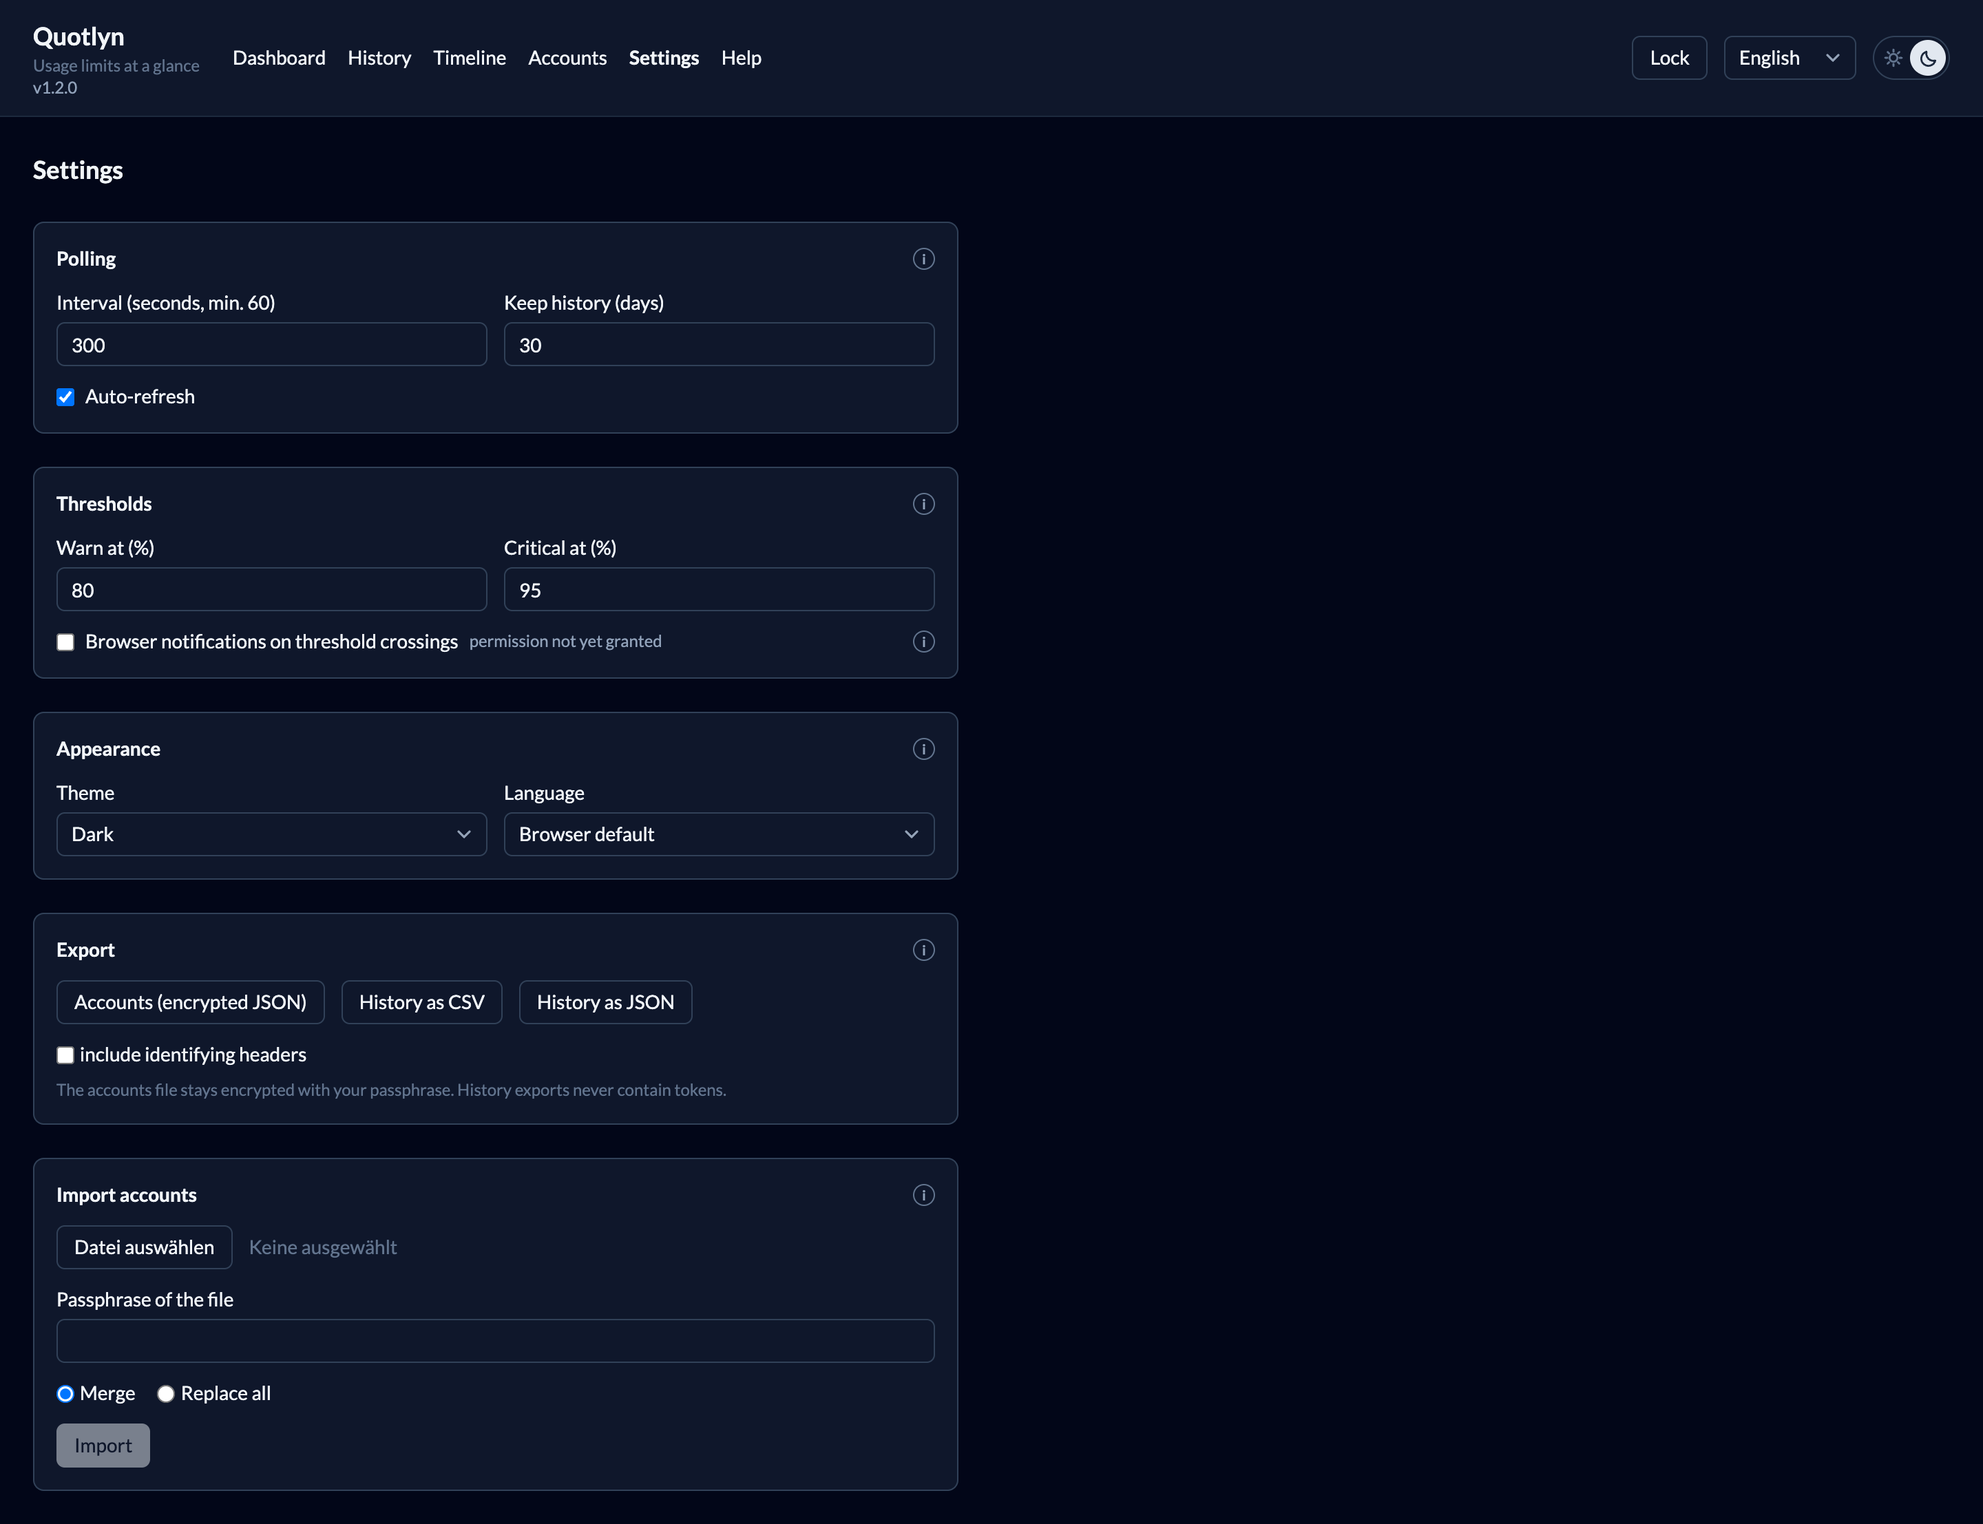
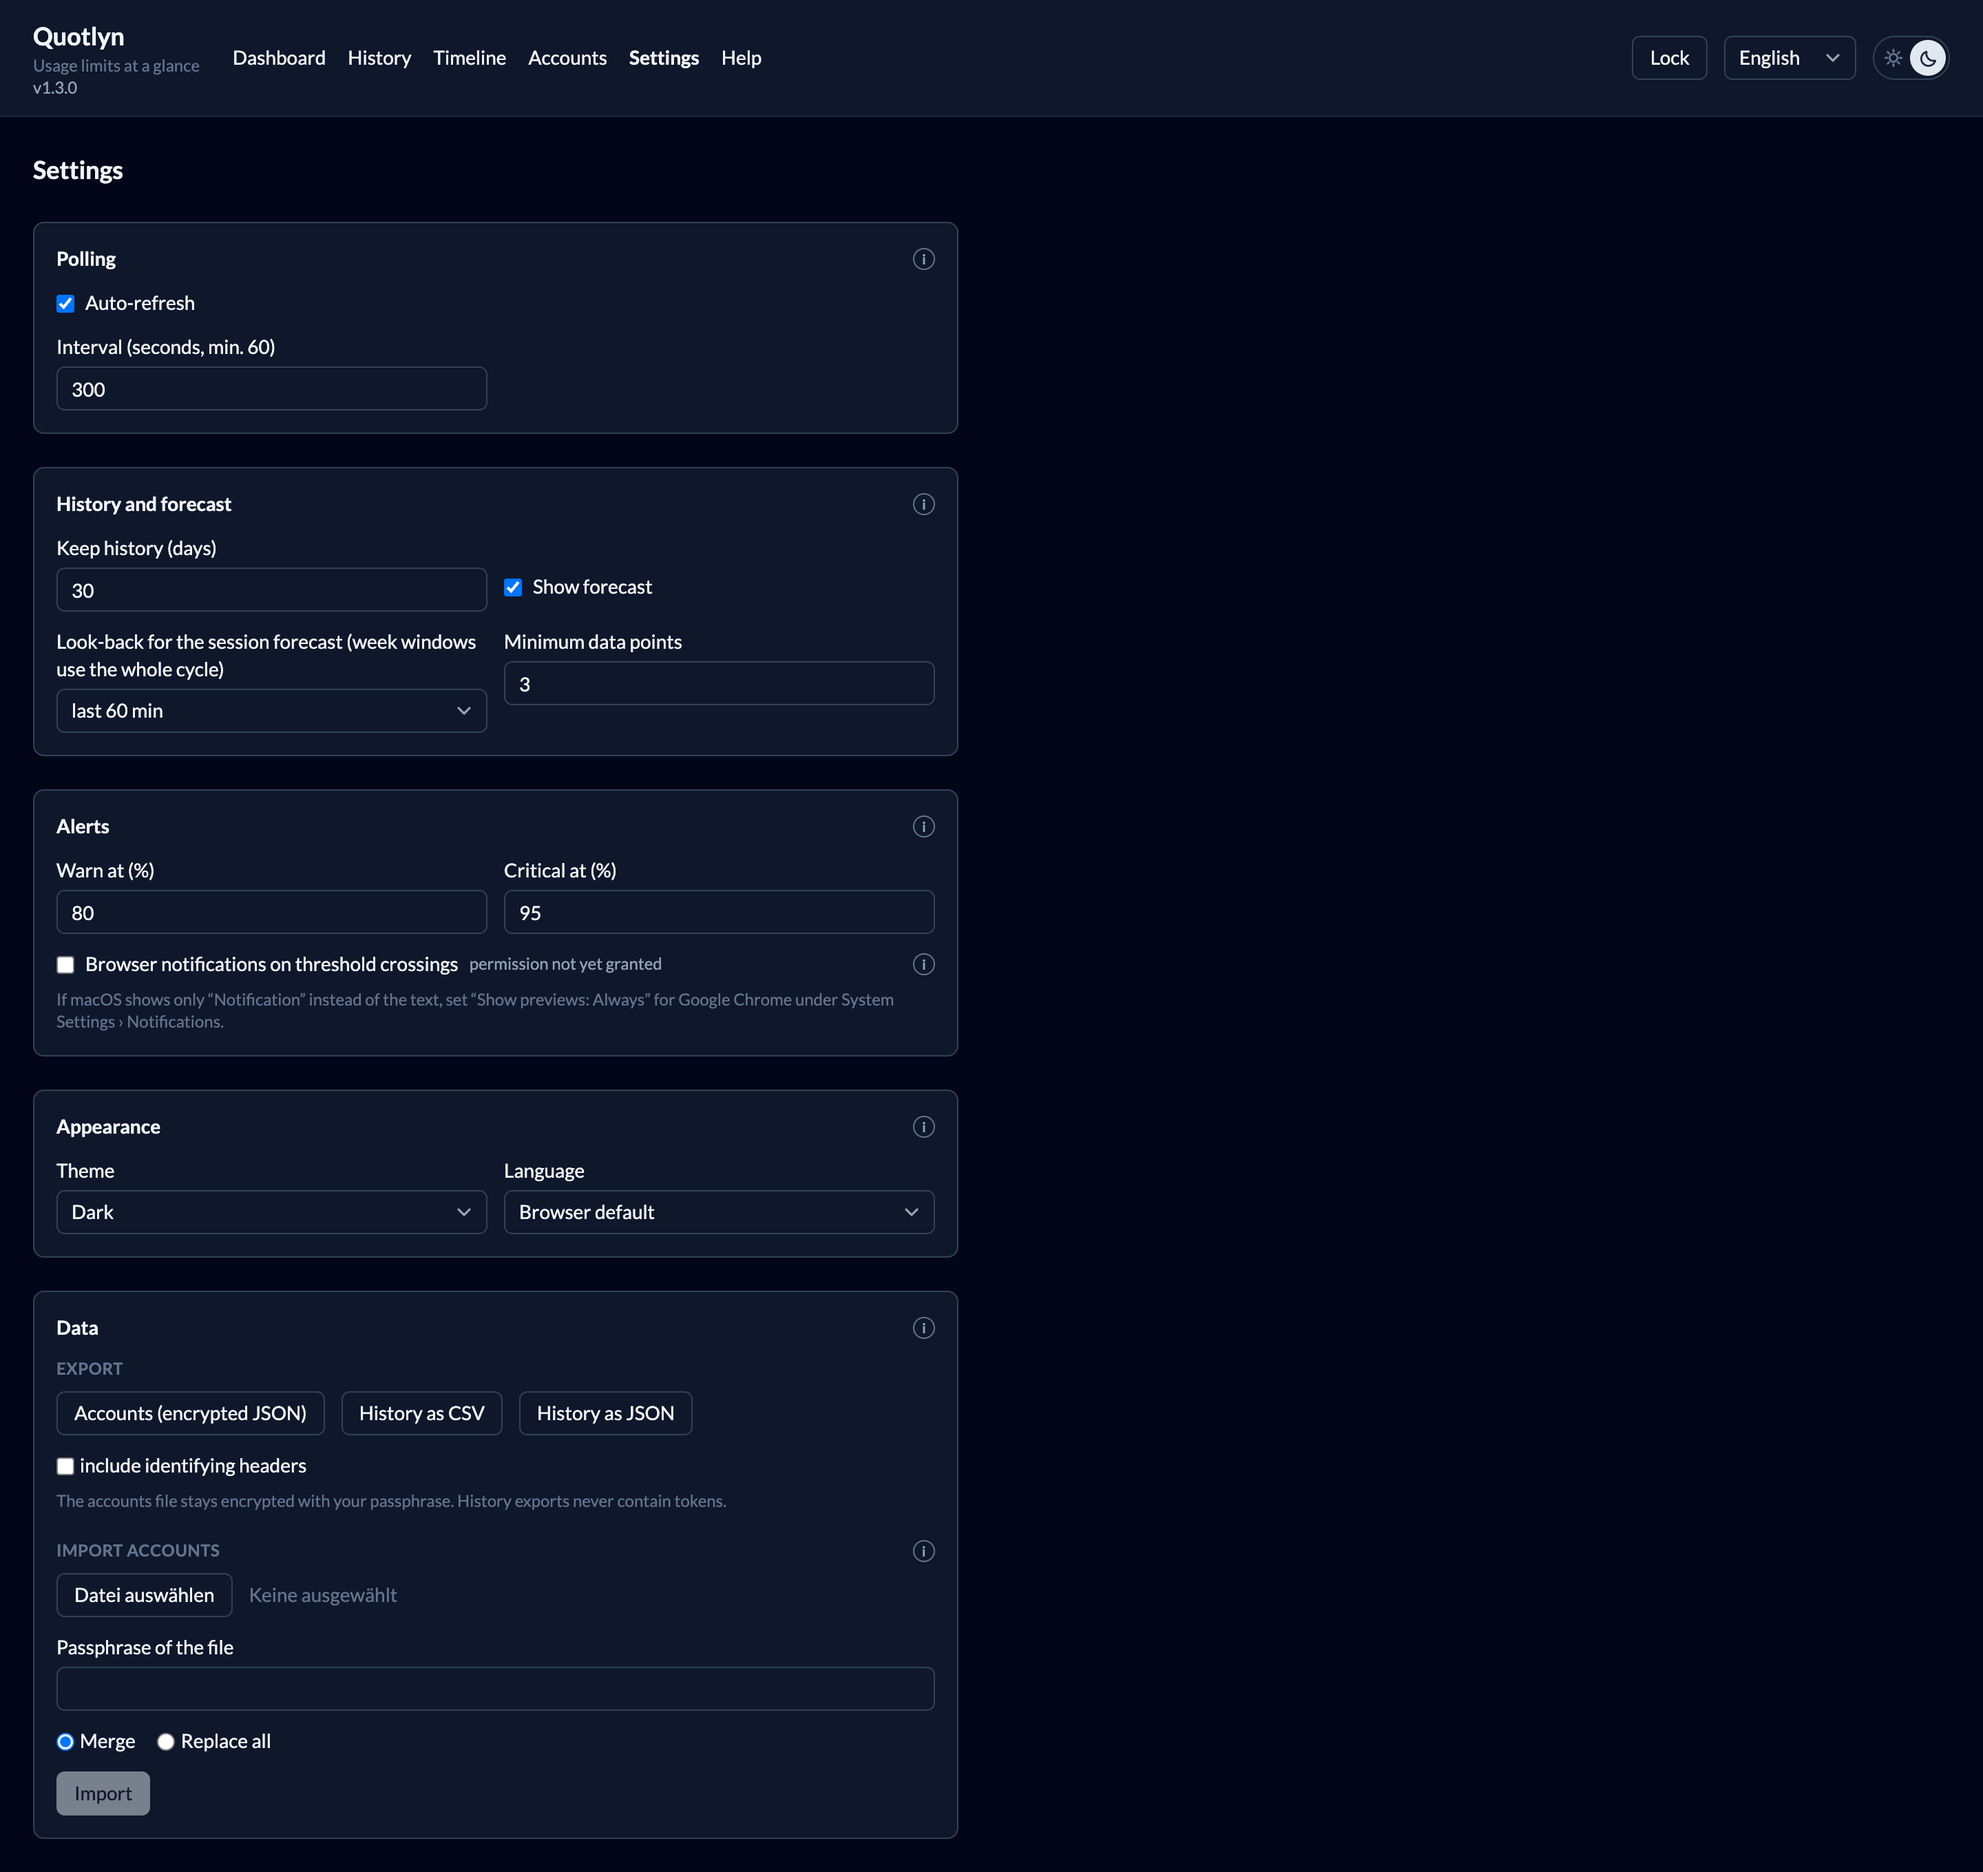
docs: describe the forecast and retake the screenshots
Forecast paragraph and the regrouped settings in the feature list;
screenshots retaken against the mock stack with the 1.3 dashboard,
history, timeline and settings.

diff --git a/README.md b/README.md
@@ -58,6 +58,14 @@ light: green, amber or red by the most used window, always red while the
 limit is reached. Hover it to see why. Each card can be polled on its own,
 and cards can be ordered as configured or by remaining room.
 
+**Forecast.** From the snapshots of the current cycle Quotlyn fits the
+slope of each window and tells you when it will be full, or how full it
+will be at the reset. The session window uses a configurable look-back, the
+week windows the whole cycle from 0 %. The cards show it as a line under
+the lead metric, as a faint ghost arc on each ring and in the ring legend.
+History continues each line as a dashed projection, the timeline marks the
+expected exhaustion with a diamond. The forecast can be switched off.
+
 ![Dashboard with one card per account and nested rings per limit window](docs/screenshots/dashboard.png)
 
 **History.** Utilization over time per account and window, for the last 24
@@ -76,9 +84,9 @@ notifications. Reorder with the arrows, test a token before saving.
 
 ![Account form with token test](docs/screenshots/accounts.png)
 
-**Settings.** Polling interval and history retention, warn and critical
-thresholds, browser notifications, theme and language, plus export and
-import.
+**Settings.** Polling, history retention and forecast, warn and critical
+thresholds with browser notifications, theme and language, and export and
+import of your data.
 
 ![Settings page](docs/screenshots/settings.png)
 
